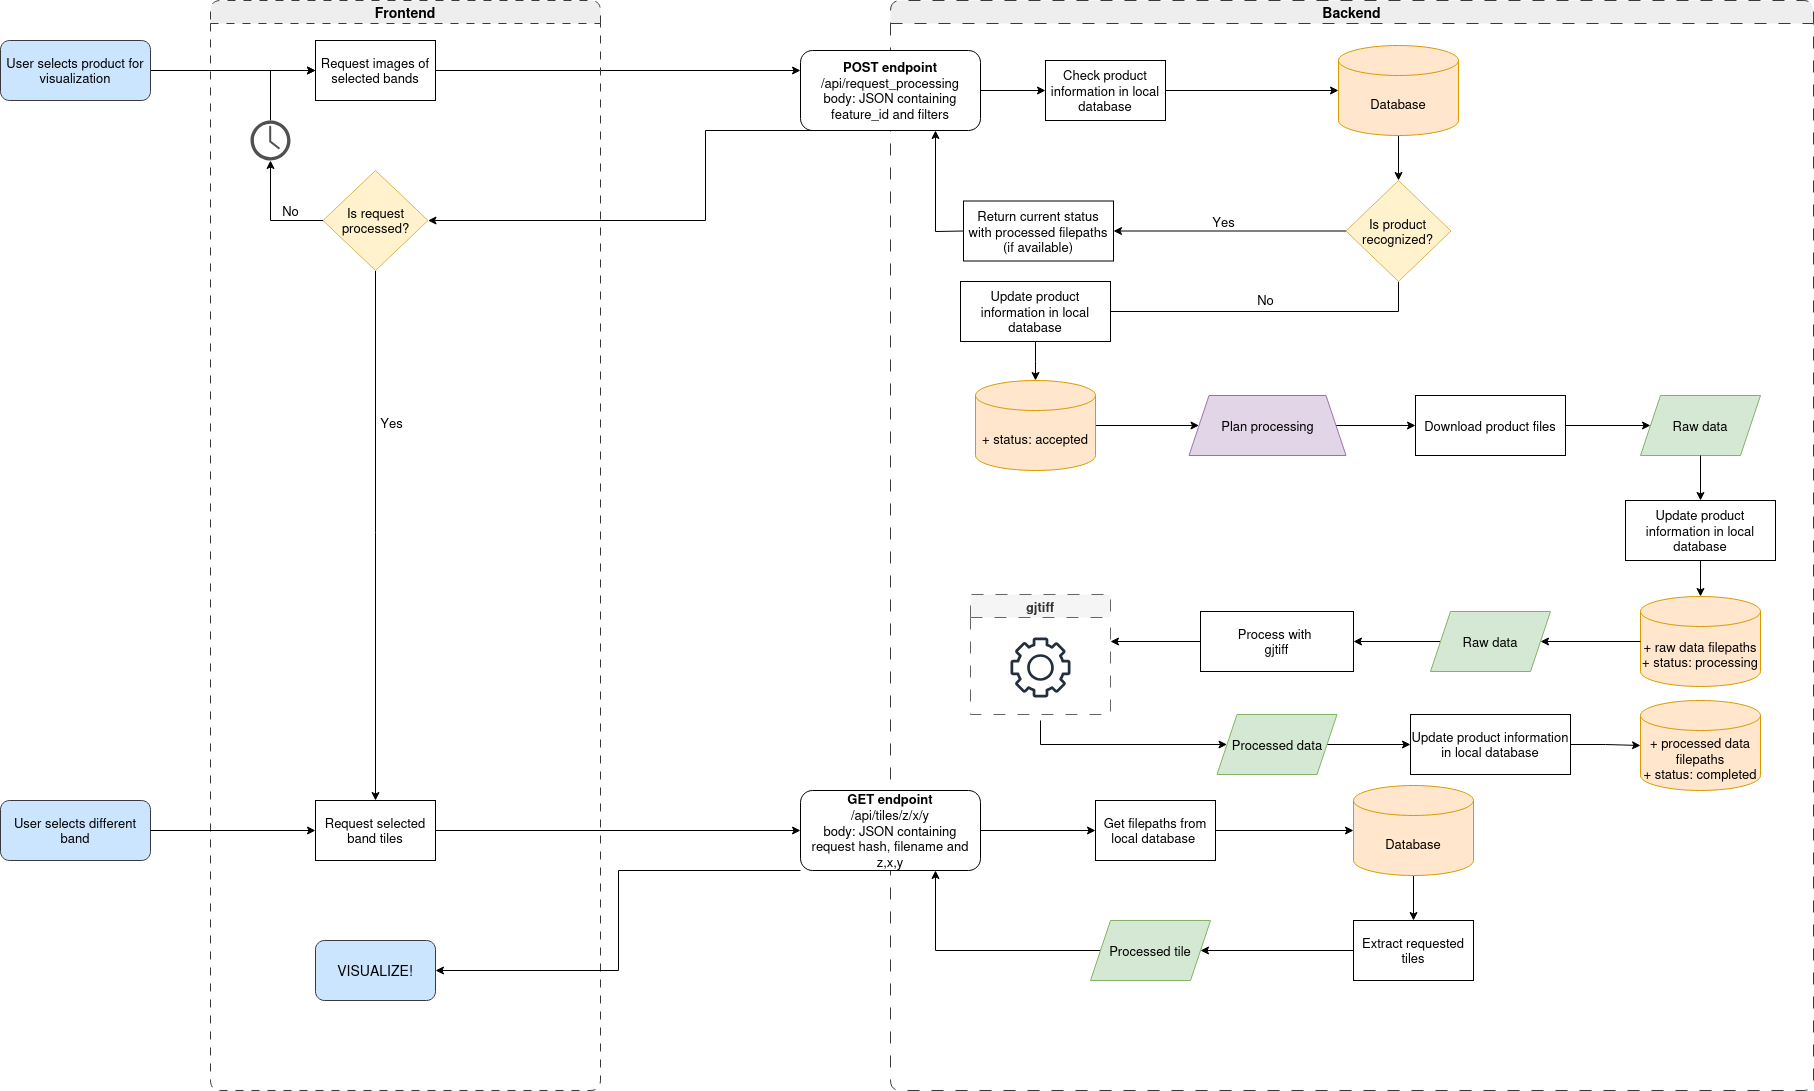
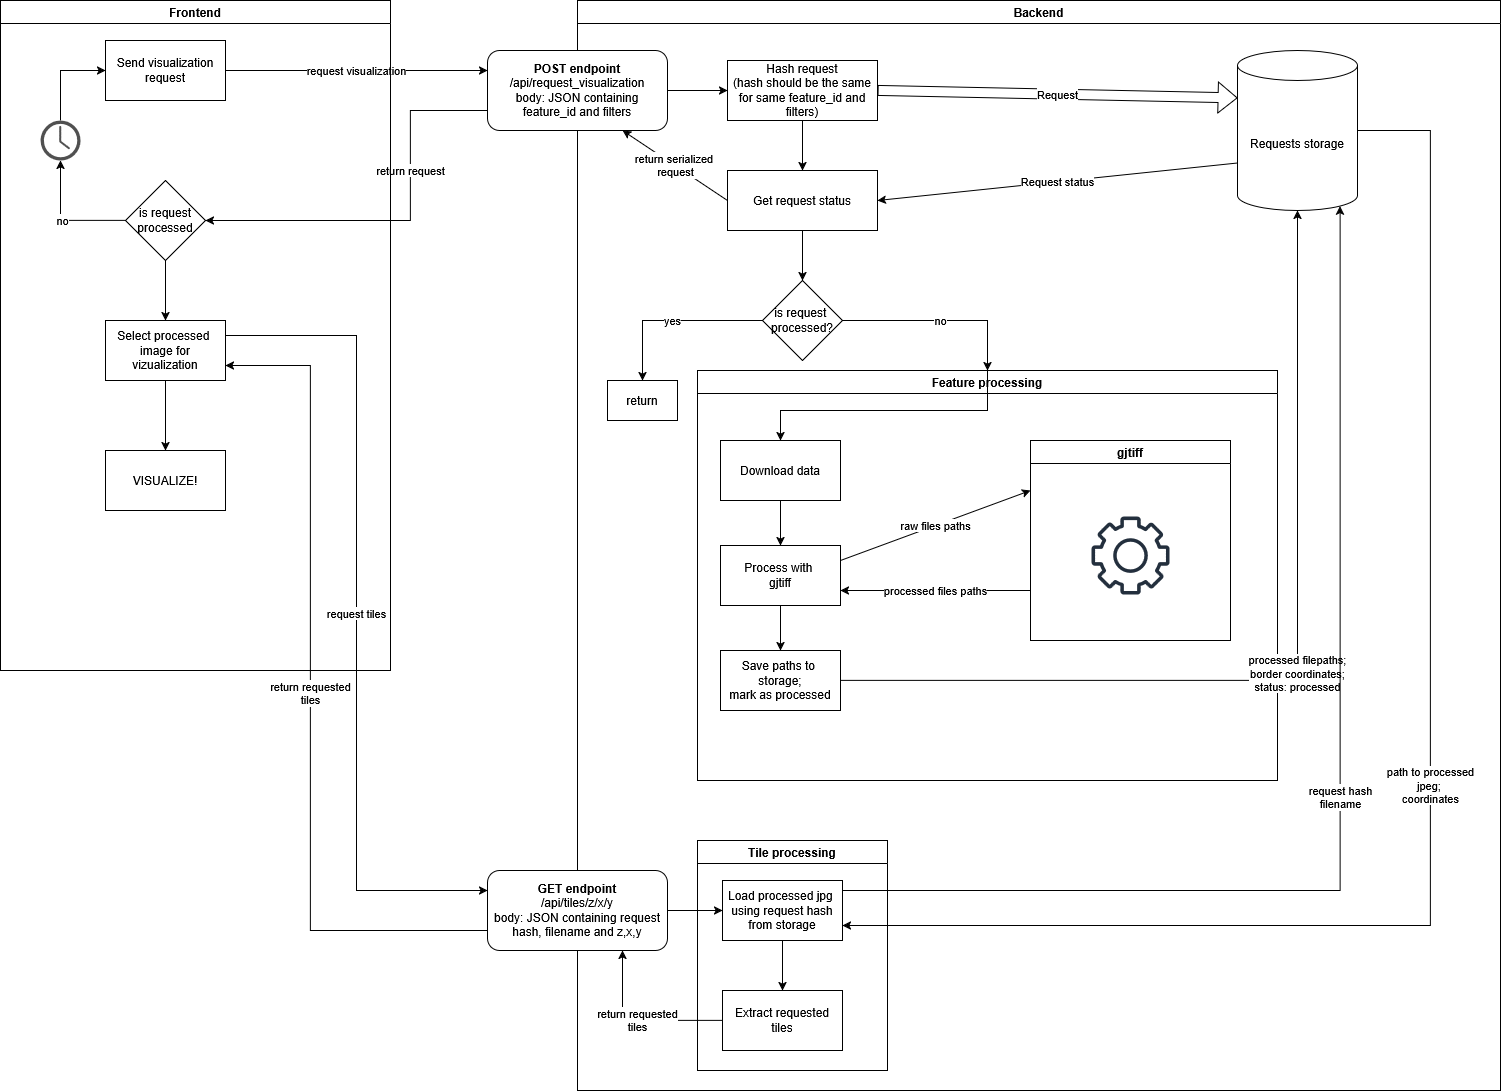
Updated docs

diff --git a/README.md b/README.md
@@ -31,6 +31,7 @@ DHR_CATALOG_ROOT="https://stac.domain.cz/"
 DHR_CONNECTOR_HOST_BASE="https://dhr.domain.cz/"
 DHR_CONNECTOR_USERNAME="USERNAME"
 DHR_CONNECTOR_PASSWORD="PASSWORD"
+# DHR (DHuS) is being deprecated in favor of GSS. See: https://docs.metacentrum.cz/en/docs/related/collgs
 
 CDSE_CATALOG_ROOT="https://catalogue.dataspace.copernicus.eu/odata/v1/"
 CDSE_CONNECTOR_S3_HOST_BASE="https://eodata.dataspace.copernicus.eu/"
@@ -38,6 +39,7 @@ CDSE_CONNECTOR_S3_HOST_BUCKET="eodata"
 CDSE_CONNECTOR_S3_REGION_NAME="default"
 CDSE_CONNECTOR_S3_ACCESS_KEY="ACCESS_KEY"
 CDSE_CONNECTOR_S3_SECRET_KEY="SECRET_KEY"
+# Guide to obtain CDSE S3 credentials can be found here: https://documentation.dataspace.copernicus.eu/APIs/S3.html
 
 DOCKER_SHARED_DATA_DIRECTORY="/data"
 
@@ -69,6 +71,12 @@ docker compose up -d
 
 Frontend will be accessible at ${FRONTEND_DOMAIN} backend at ${FRONTEND_DOMAIN}/api.
 
+## Requirements
+
+- Docker
+- CUDA capable GPU (tested with NVIDIA GeForce RTX 4080)
+- Access to [CDSE S3 storage](https://documentation.dataspace.copernicus.eu/APIs/S3.html)
+
 ## Notes
 
-Currently Oculus supports two data sources - CDSE and DHR with prioritizing DHuS data source if the demanded product is available there. Since DHuS software is being deprecated in favor of GSS, GSS connector will be further implemented and support for DHuS will be removed.
+Currently Oculus supports two data sources - CDSE and DHuS([^1]: Using Czech DataHub Relay: https://docs.metacentrum.cz/en/docs/related/collgs) with prioritizing DHuS data source if the demanded product is available there. Since DHuS software is being deprecated in favor of GSS, GSS connector will be further implemented and support for DHuS will be removed.

diff --git a/docs/docs.md b/docs/docs.md
@@ -17,6 +17,10 @@ Design principles:
 - **GPU-accelerated processing** - heavy raster processing is executed on NVIDIA CUDA GPUs to minimize latency for preview generation.
 - **Containerized** - full stack runs in Docker for reproducible deployments.
 
+## Core workflow
+
+![core_workflow](img/core_workflow.png)
+
 ## Architecture
 
 ![architecture](img/architecture.png)
@@ -70,6 +74,7 @@ The frontend is a JavaScript single-page web application for visualization of sa
 - Generated images are returned as JPEG previews and as tiled overlays (WebMercator) so they can be added as map layers.
 - Overlay opacity is adjustable for quick comparison with base maps.
 - Tiling enables efficient display of large products in the browser.
+- Processed images of the entire scene can be downloaded using dedicated button in the GUI
 
 ---
 
